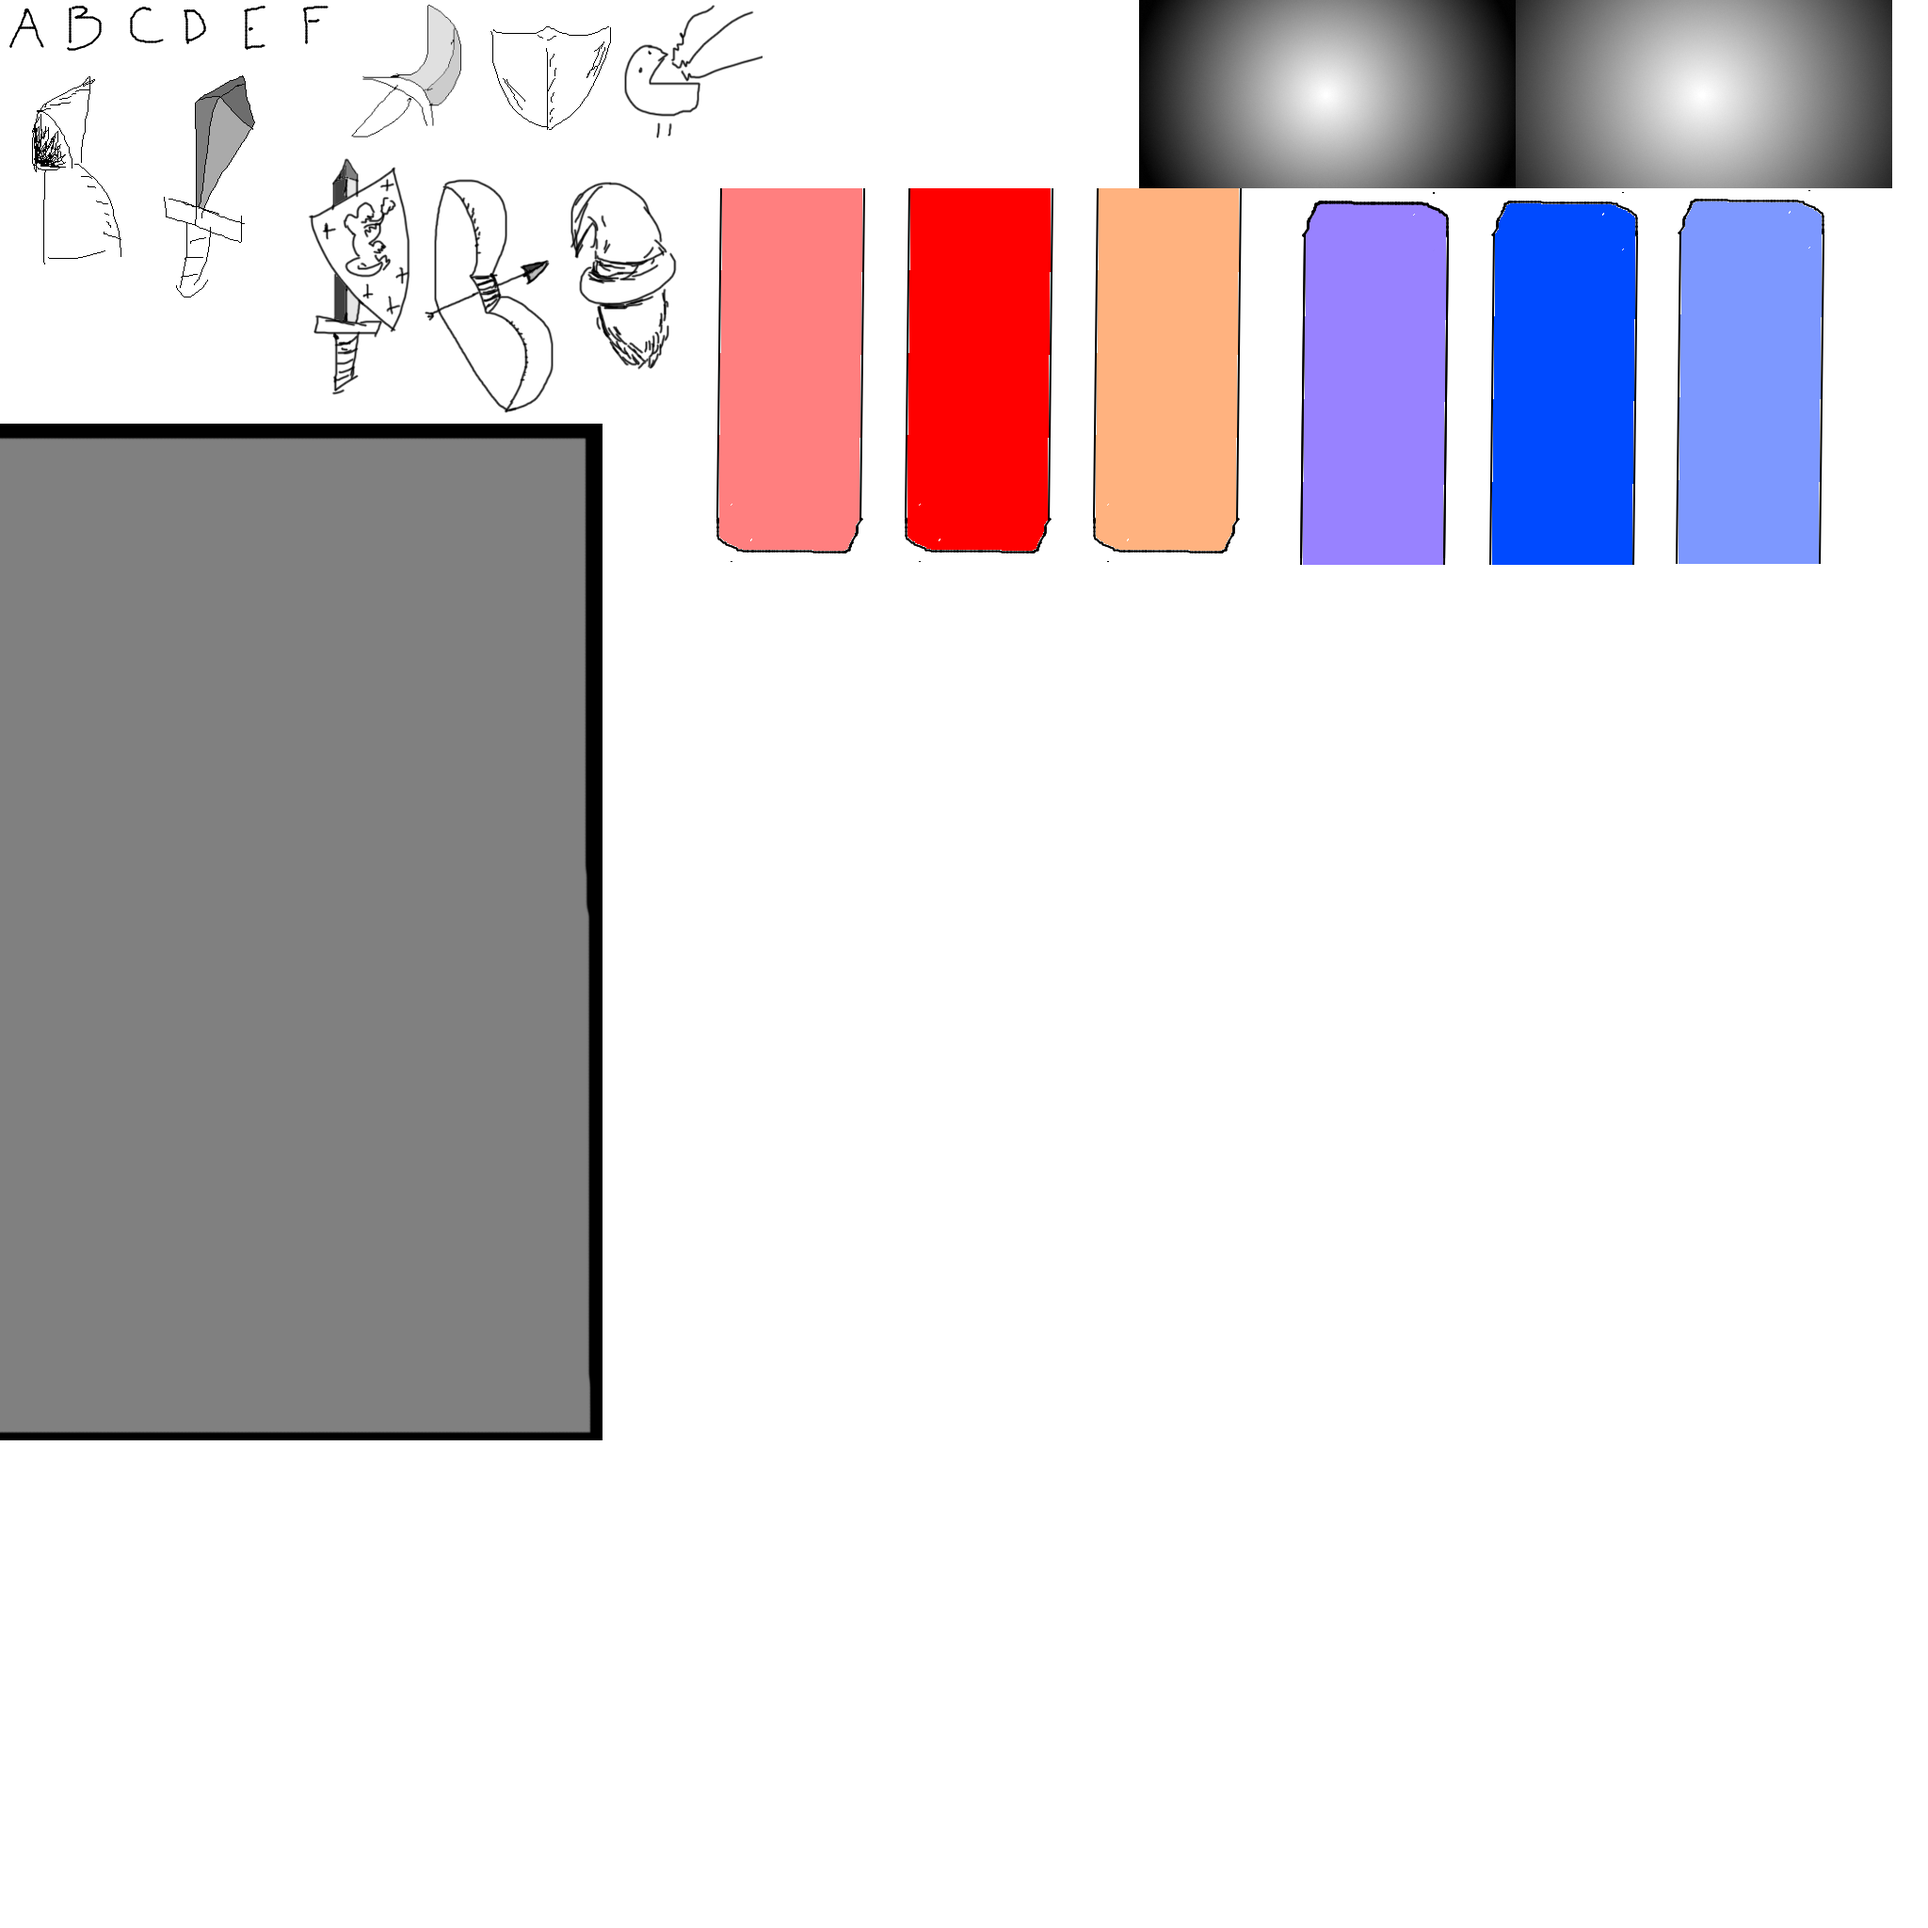
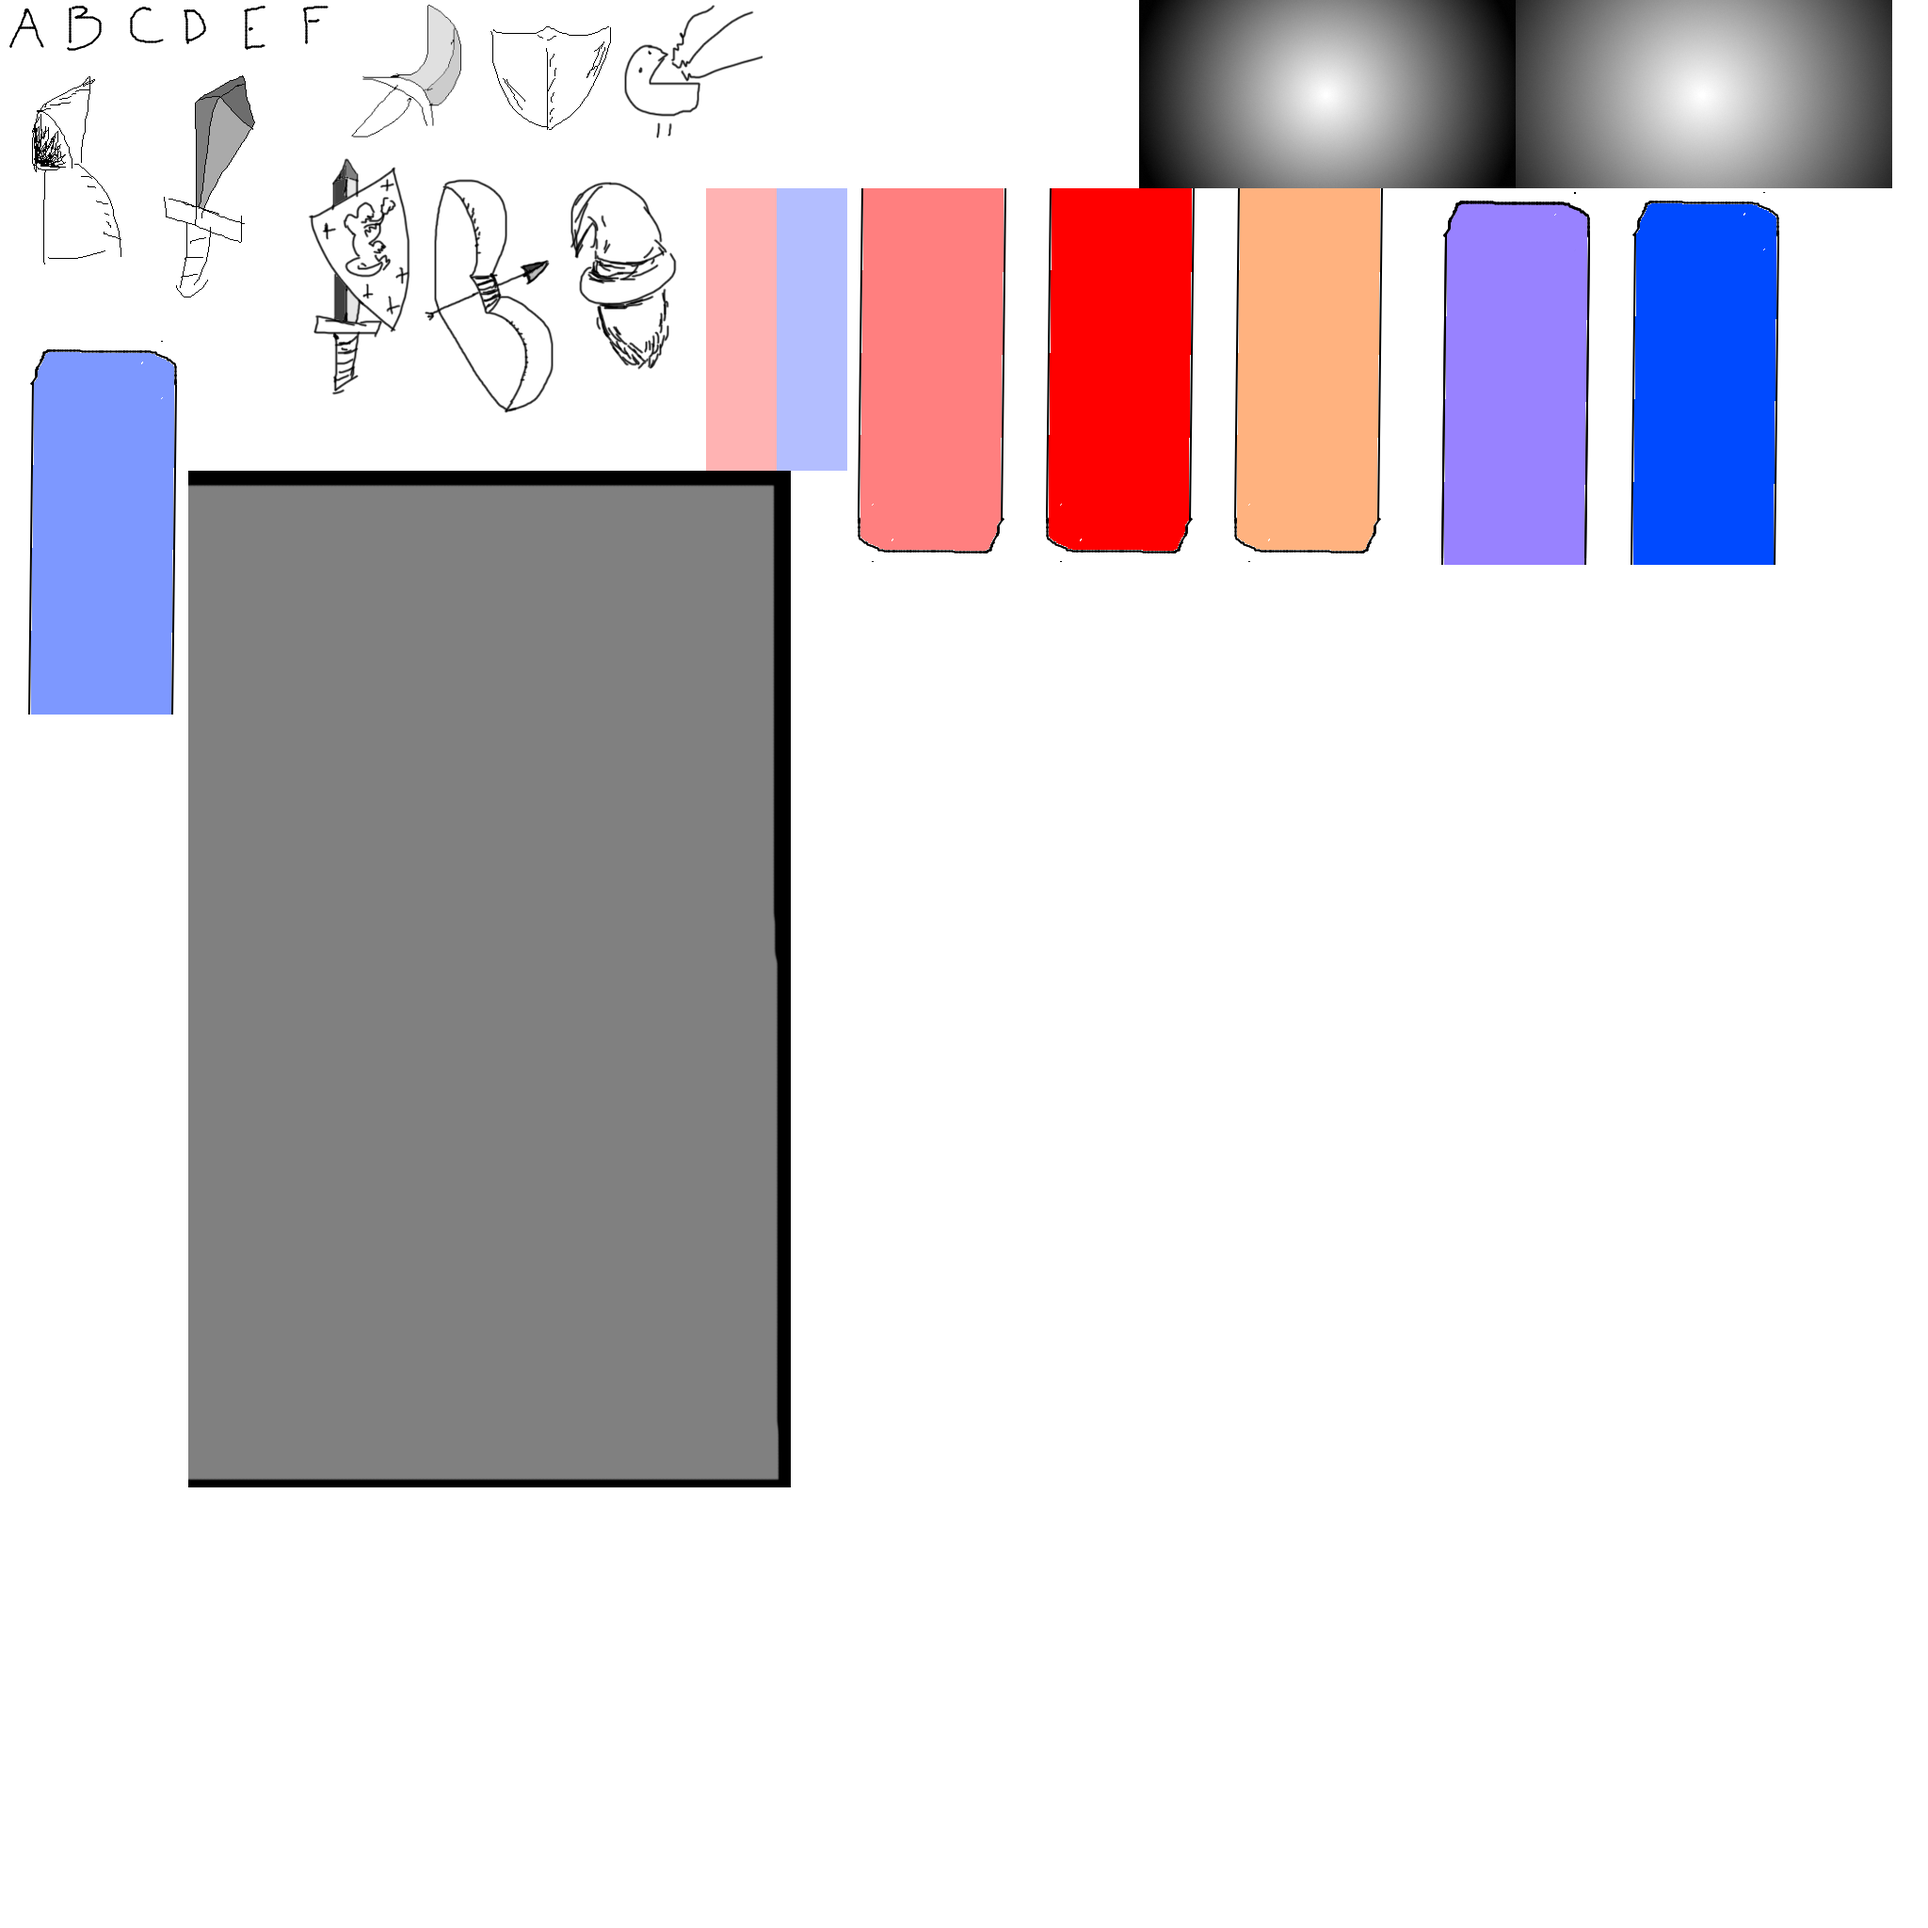
hp/ch indicator

Changed region(s): [[0.0, 0.0938, 0.9688, 0.7812]]

diff --git a/src/app/screens/exec/screen.ts b/src/app/screens/exec/screen.ts
@@ -18,6 +18,7 @@ type UnitSelection = GlobalId<"friendly" | "enemy">;
 export class ExecScreen {
   clearBtnPool: Pool<{}, "neutral" | "hover" | "down">
   unitPool: Pool<UnitData, {}>
+  unitResPool: Pool<UnitResData, {}>
   abilityPool: Pool<AbilityData, {}>
   unitTextPool: TextPool
   statsTextPool: TextPool
@@ -36,6 +37,7 @@ export class ExecScreen {
   ) {
     this.clearBtnPool = mkClearBtnPool(gameRefs);
     this.unitPool = mkUnitPool(gameRefs);
+    this.unitResPool = mkUnitResPool(gameRefs);
     this.unitTextPool = new TextPool(gameRefs.game);
     this.statsTextPool = new TextPool(gameRefs.game);
     this.abilityPool = mkAbilityPool(gameRefs);
@@ -72,6 +74,7 @@ export class ExecScreen {
   drawFriendlyUnits(
   ) {
     this.unitPool.clear();
+    this.unitResPool.clear();
     this.triggerPool.clear();
     this.unitTextPool.clear();
 
@@ -94,27 +97,41 @@ export class ExecScreen {
         const unitSprite = this.unitPool.newSprite(unitPos.xMin, unitPos.yMin, {},
           { cardId: unit.cardId,
             globalId: new GlobalId(unit.id, "friendly"),
-          });
-        //mkUnitPool(game, gameRefs, unitPos, unit.cardId, unitIndex, "friendly");
+          }
+        );
 
         // HP
-        /*const unitHpPos = relativeTo(unitPos,
-          "below", 50,
-          150, 50,
+        const unitHpPos = createPosition(
+          "left", 650 + 160 * unitIndex, 75,
+          "top", 50, 300,
         );
-        unitHpPos.xMax = unitHpPos.xMin + (unitHpPos.xMax - unitHpPos.xMin) * (unit.hp / unit.maxHp);
-        createUnitResource(game, gameRefs, unitHpPos, "hp");
+        const hpHeight = unitHpPos.yMax - unitHpPos.yMin;
+        unitHpPos.yMin = unitHpPos.yMin + hpHeight * ((unit.maxHp - unit.hp) / unit.maxHp);
+        const unitHpSprite = this.unitResPool.newSprite(unitHpPos.xMin, unitHpPos.yMin, {},
+          { cardId: unit.cardId,
+            globalId: new GlobalId(unit.id, "friendly"),
+            type: "hp",
+          }
+        );
+        unitHpSprite.height = hpHeight * (unit.hp / unit.maxHp);
 
         // CH
-        const unitChPos = relativeTo(unitPos,
-          "below", 150,
-          150, 50,
+        const unitChPos = createPosition(
+          "left", 725 + 160 * unitIndex, 75,
+          "top", 50, 300,
         );
-        unitChPos.xMax = unitChPos.xMin + (unitChPos.xMax - unitChPos.xMin) * (unit.charges / unit.maxCharges);
-        createUnitResource(game, gameRefs, unitChPos, "ch");
+        const chHeight = unitChPos.yMax - unitChPos.yMin;
+        unitChPos.yMin = unitChPos.yMin + chHeight * ((unit.maxCharges - unit.charges) / unit.maxCharges);
+        const unitChSprite = this.unitResPool.newSprite(unitChPos.xMin, unitChPos.yMin, {},
+          { cardId: unit.cardId,
+            globalId: new GlobalId(unit.id, "friendly"),
+            type: "ch",
+          }
+        );
+        unitChSprite.height = chHeight * (unit.charges / unit.maxCharges);
 
         // TH
-        let i = 0;
+        /*let i = 0;
         for (const enId of enIds) {
           const unitThPos = relativeTo(unitPos,
             "below", 250 + 100 * i,
@@ -135,7 +152,38 @@ export class ExecScreen {
         const unitSprite = this.unitPool.newSprite(unitPos.xMin, unitPos.yMin, {},
           { cardId: unit.cardId,
             globalId: new GlobalId(unit.id, "enemy"),
-          });
+          }
+        );
+
+        // HP
+        const unitHpPos = createPosition(
+          "left", 1300 + 160 * unitIndex, 75,
+          "top", 50, 300,
+        );
+        const hpHeight = unitHpPos.yMax - unitHpPos.yMin;
+        unitHpPos.yMin = unitHpPos.yMin + hpHeight * ((unit.maxHp - unit.hp) / unit.maxHp);
+        const unitHpSprite = this.unitResPool.newSprite(unitHpPos.xMin, unitHpPos.yMin, {},
+          { cardId: unit.cardId,
+            globalId: new GlobalId(unit.id, "enemy"),
+            type: "hp",
+          }
+        );
+        unitHpSprite.height = hpHeight * (unit.hp / unit.maxHp);
+
+        // CH
+        const unitChPos = createPosition(
+          "left", 1375 + 160 * unitIndex, 75,
+          "top", 50, 300,
+        );
+        const chHeight = unitChPos.yMax - unitChPos.yMin;
+        unitChPos.yMin = unitChPos.yMin + chHeight * ((unit.maxCharges - unit.charges) / unit.maxCharges);
+        const unitChSprite = this.unitResPool.newSprite(unitChPos.xMin, unitChPos.yMin, {},
+          { cardId: unit.cardId,
+            globalId: new GlobalId(unit.id, "enemy"),
+            type: "ch",
+          }
+        );
+        unitChSprite.height = chHeight * (unit.charges / unit.maxCharges);
       }
     });
 
@@ -217,7 +265,16 @@ export class ExecScreen {
           return sprite;
         },
         introTween: (sprite: DataSprite<LogActionData>) => {
-          return this.logActionPool.introTween(sprite);
+          const tween = this.logActionPool.introTween(sprite);
+          if (tween !== undefined) {
+            tween.last.onComplete.add(() => {
+              // TODO: add parameter to the draw functions instead of setting the screen state
+              this.gameRefs.screens.execScreen.state = entry.state;
+              this.gameRefs.screens.execScreen.drawFriendlyUnits();
+              this.gameRefs.screens.execScreen.drawStats(); 
+            });
+          }
+          return tween;
         },
       };
     });
@@ -232,7 +289,16 @@ export class ExecScreen {
           return sprite;
         },
         introTween: (sprite: DataSprite<LogActionData>) => {
-          return this.logActionPool.introTween(sprite);
+          const tween = this.logActionPool.introTween(sprite);
+          if (tween !== undefined) {
+            tween.last.onComplete.add(() => {
+              // TODO: add parameter to the draw functions instead of setting the screen state
+              this.gameRefs.screens.execScreen.state = entry.state;
+              this.gameRefs.screens.execScreen.drawFriendlyUnits();
+              this.gameRefs.screens.execScreen.drawStats(); 
+            });
+          }
+          return tween;
         },
       };
     });
@@ -247,7 +313,16 @@ export class ExecScreen {
           return sprite;
         },
         introTween: (sprite: DataSprite<LogActionData>) => {
-          return this.logActionPool.introTween(sprite);
+          const tween = this.logActionPool.introTween(sprite);
+          if (tween !== undefined) {
+            tween.last.onComplete.add(() => {
+              // TODO: add parameter to the draw functions instead of setting the screen state
+              this.gameRefs.screens.execScreen.state = entry.state;
+              this.gameRefs.screens.execScreen.drawFriendlyUnits();
+              this.gameRefs.screens.execScreen.drawStats(); 
+            });
+          }
+          return tween;
         },
       };
     });
@@ -260,8 +335,10 @@ export class ExecScreen {
   ) {
     this.clearBtnPool.visible = visibility;
     this.unitPool.visible = visibility;
+    this.unitResPool.visible = visibility;
     this.abilityPool.visible = visibility;
     this.triggerPool.visible = visibility;
+    this.logActionPool.visible = visibility;
     this.statsTextPool.setVisiblity(visibility);
     this.unitTextPool.setVisiblity(visibility);
   }
@@ -310,6 +387,50 @@ function mkUnitPool(
       atlas: "atlas1",
       toFrame: (self, frameType) => {
         return cardMap[self.data.cardId];
+      },
+      introAnim: [
+        (self, tween) => {
+          tween.from({ y: self.y - 50 }, 20, Phaser.Easing.Linear.None, false, 5);
+        },
+      ],
+      callbacks: {
+        click: (self) => {
+          const clickState = gameRefs.screens.execScreen.clickState;
+          if (clickState === undefined) {
+            clickUnit(gameRefs, self.data.globalId);
+          } else {
+            clickState.inputs.push(self.data.globalId);
+            if (clickState.inputs.length === clickState.ability.inputs.length) {
+              extendLevelSolution(gameRefs, clickState!);
+            }
+          }
+        },
+        hoverOver: (self) => {
+          hoverUnit(gameRefs, self.data.globalId);
+        },
+        hoverOut: (self) => {
+          clearHover(gameRefs);
+        },
+      },
+    },
+  );
+}
+
+type UnitResData = {
+  cardId: string,
+  globalId: GlobalId<"friendly" | "enemy">,
+  type: "hp" | "ch",
+};
+
+function mkUnitResPool(
+  gameRefs: GameRefs,
+): Pool<UnitResData, {}> {
+  return new Pool(
+    gameRefs.game,
+    {
+      atlas: "atlas1",
+      toFrame: (self, frameType) => {
+        return `${self.data.type}.png`;
       },
       introAnim: [
         (self, tween) => {

diff --git a/src/app/data/gen/atlas1.ts b/src/app/data/gen/atlas1.ts
@@ -103,45 +103,57 @@ export type Atlas1 = {
         "width": 150,
         "height": 300
     },
-    "bmark_neutral.png": {
+    "hp.png": {
         "x": 750,
+        "y": 200,
+        "width": 75,
+        "height": 300
+    },
+    "ch.png": {
+        "x": 825,
+        "y": 200,
+        "width": 75,
+        "height": 300
+    },
+    "bmark_neutral.png": {
+        "x": 900,
         "y": 200,
         "width": 200,
         "height": 400
     },
     "bmark_click.png": {
-        "x": 950,
+        "x": 1100,
         "y": 200,
         "width": 200,
         "height": 400
     },
     "bmark_hover.png": {
-        "x": 1150,
+        "x": 1300,
         "y": 200,
         "width": 200,
         "height": 400
     },
     "bt_bmark_neutral.png": {
-        "x": 1350,
+        "x": 1500,
         "y": 200,
         "width": 200,
         "height": 400
     },
     "bt_bmark_click.png": {
-        "x": 1550,
+        "x": 1700,
         "y": 200,
         "width": 200,
         "height": 400
     },
     "bt_bmark_hover.png": {
-        "x": 1750,
-        "y": 200,
+        "x": 0,
+        "y": 360,
         "width": 200,
         "height": 400
     },
     "box.png": {
-        "x": 0,
-        "y": 450,
+        "x": 200,
+        "y": 500,
         "width": 640,
         "height": 1080
     }
@@ -250,45 +262,57 @@ export const atlas1: Atlas1 = {
         "width": 150,
         "height": 300
     },
-    "bmark_neutral.png": {
+    "hp.png": {
         "x": 750,
+        "y": 200,
+        "width": 75,
+        "height": 300
+    },
+    "ch.png": {
+        "x": 825,
+        "y": 200,
+        "width": 75,
+        "height": 300
+    },
+    "bmark_neutral.png": {
+        "x": 900,
         "y": 200,
         "width": 200,
         "height": 400
     },
     "bmark_click.png": {
-        "x": 950,
+        "x": 1100,
         "y": 200,
         "width": 200,
         "height": 400
     },
     "bmark_hover.png": {
-        "x": 1150,
+        "x": 1300,
         "y": 200,
         "width": 200,
         "height": 400
     },
     "bt_bmark_neutral.png": {
-        "x": 1350,
+        "x": 1500,
         "y": 200,
         "width": 200,
         "height": 400
     },
     "bt_bmark_click.png": {
-        "x": 1550,
+        "x": 1700,
         "y": 200,
         "width": 200,
         "height": 400
     },
     "bt_bmark_hover.png": {
-        "x": 1750,
-        "y": 200,
+        "x": 0,
+        "y": 360,
         "width": 200,
         "height": 400
     },
     "box.png": {
-        "x": 0,
-        "y": 450,
+        "x": 200,
+        "y": 500,
         "width": 640,
         "height": 1080
     }
